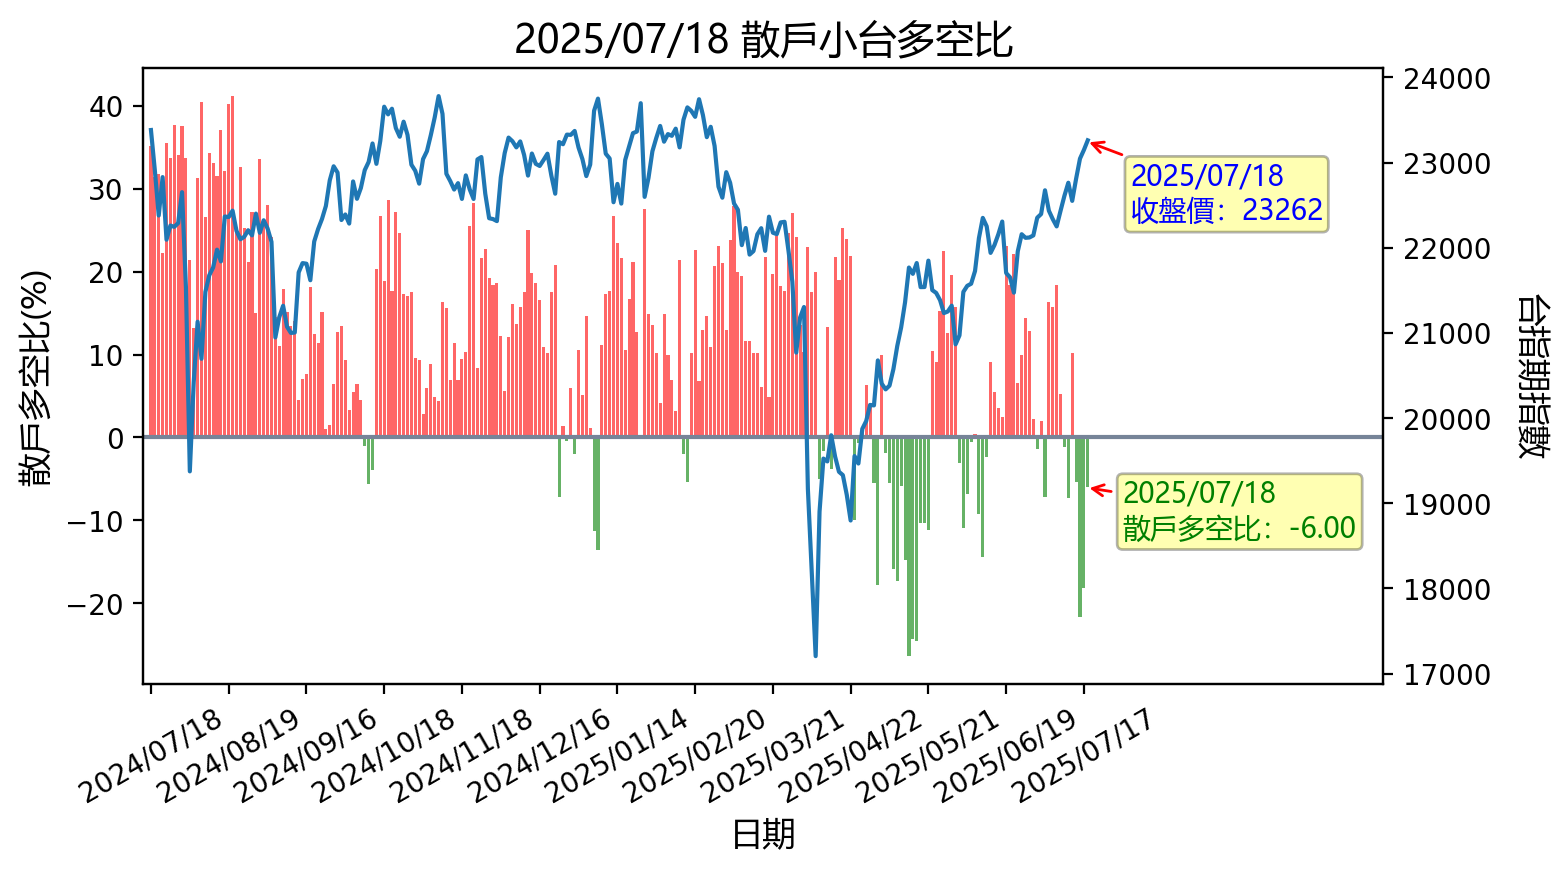
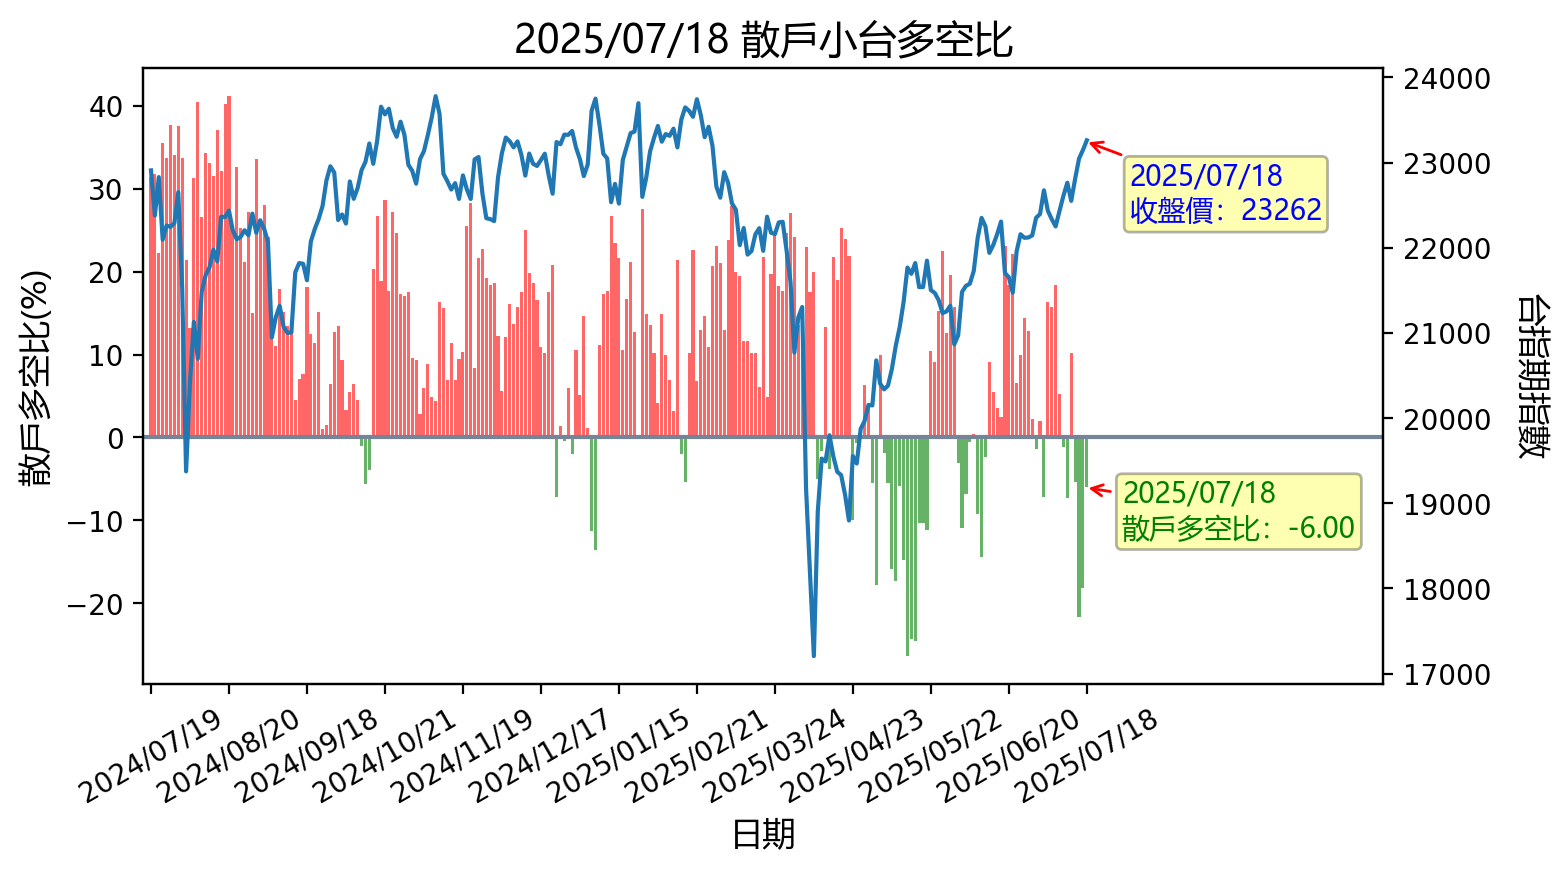
更新時間: Sat Jul 19 16:38:34 CST 2025

diff --git a/README.md b/README.md
@@ -1,12 +1,12 @@
-## 20250718 台指期「預估換倉成本」
+## 20250719 台指期「預估換倉成本」
 ![](images/txfcost.png)
 
-## 20250718 台指期「散戶小台多空比」
+## 20250719 台指期「散戶小台多空比」
 ![](images/bbiri.png)
 
-## 20250718 台指選擇權「Put/Call Ratios」
+## 20250719 台指選擇權「Put/Call Ratios」
 ![](images/pcratio.png)
 
-## 20250718 台指期「大額交易人」
+## 20250719 台指期「大額交易人」
 ![](images/blocktrade.png)
 
